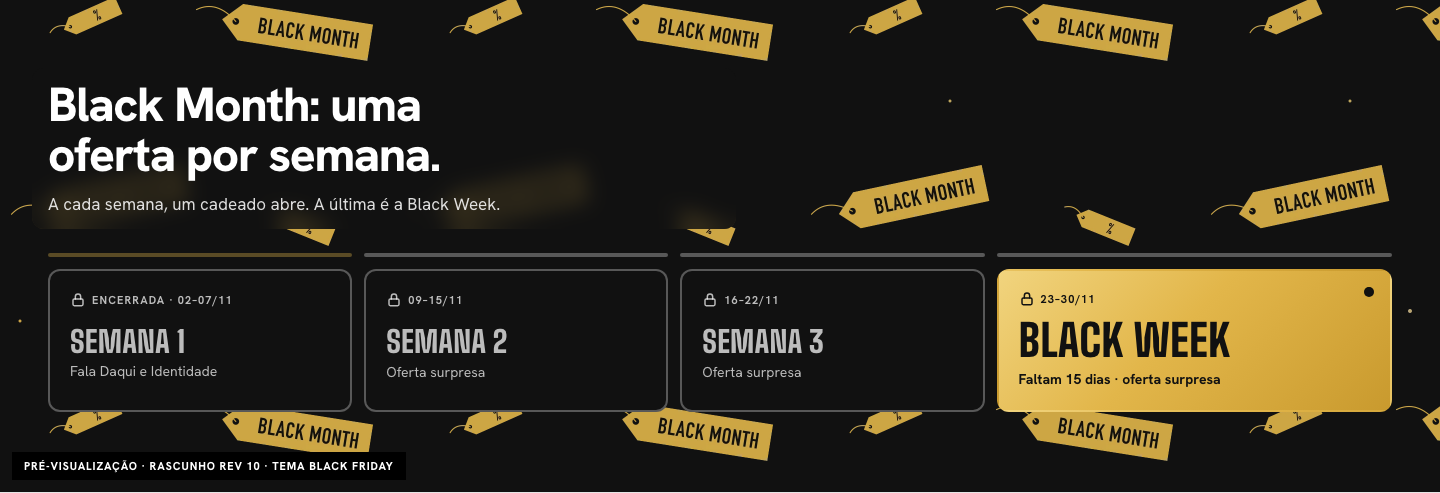
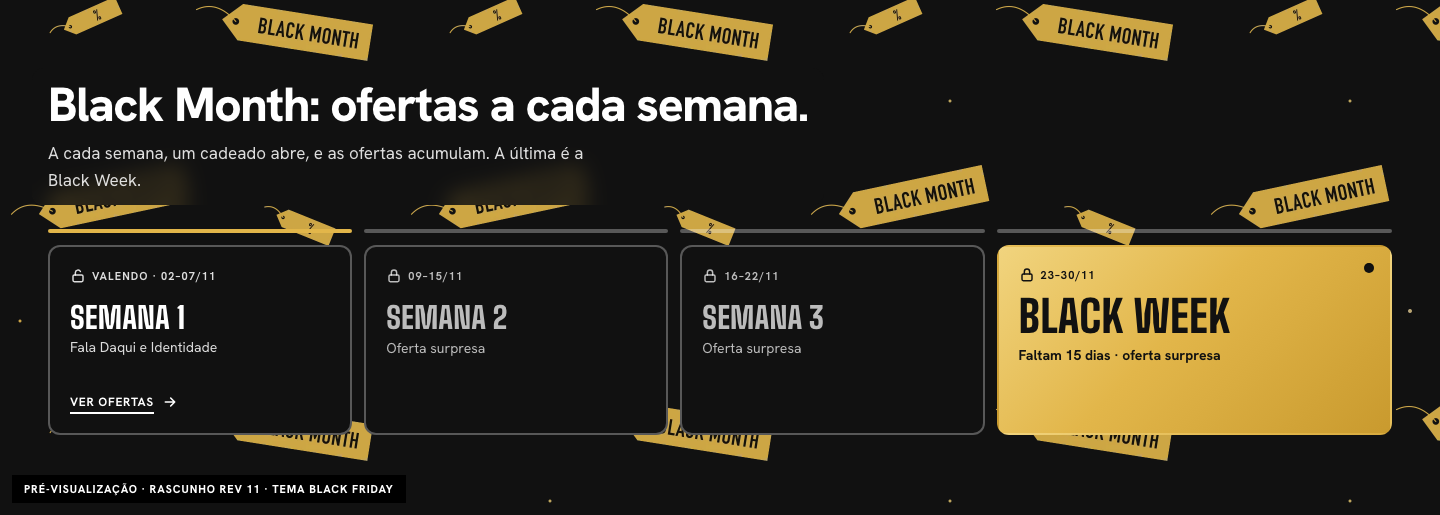
feat(storefront): calendário da Black — ofertas acumulam, Black Week primeiro e em dourado, faixa no topo da hotpage
Pedidos do dono sobre a hotpage do calendário:
- A faixa de checkpoints pode abrir a página no lugar do topo (o topo oculto; o título dela vira o h1).
- "Ofertas acumulam" na faixa: a semana que passou continua "Valendo · 02–07/11", com o link. As vitrines sem dia de
  encerramento continuam abertas.
- Na última semana, as vitrines com período invertem a ordem (a Black Week primeiro).
- A cor própria da vitrine (o dourado da Black Week) tinge o vidro enquanto ela está fechada. Sobre uma cor num fundo escuro,
  os cards ganham fundo claro (contraste do nome e da cidade).
- Prévia: numa página, &tema=black mostra o topo e as cores da Black.

diff --git a/src/components/home/HomeSections.tsx b/src/components/home/HomeSections.tsx
@@ -29,7 +29,7 @@ import { heroCards, heroSlides } from "@/lib/hero-featured";
 import type { RegionHome } from "@/lib/home";
 import type { RegionSlug } from "@/lib/geo/regions";
 import { storeForRegion } from "@/lib/catalog/commerce-mode";
-import { checkpointStates, daysBetween, periodLabel, periodState, todayInBrasilia } from "@/lib/site-config/checkpoints";
+import { checkpointStates, dayMonth, daysBetween, periodLabel, periodState, todayInBrasilia } from "@/lib/site-config/checkpoints";
 import { LockedShelf } from "./LockedShelf";
 import { WeeklyCheckpoints, type CheckpointView } from "./WeeklyCheckpoints";
 import { customizerFigure, firstImageSectionId, focalToCss, hasImage, mediaFigure, renderableSections, resolveBackground, resolveCustomizerCard, resolveStateCovers } from "@/lib/site-config/resolve";
@@ -90,7 +90,7 @@ export function HomeSections({
 
   const rendered = (
     <>
-      {sections.map((s, index) => {
+      {byCalendar(sections, today).map((s, index) => {
         const bg = resolveBackground(s.appearance, media);
         switch (s.template) {
           case "hero": {
@@ -245,10 +245,13 @@ export function HomeSections({
               return (
                 <LockedShelf
                   key={s.id}
+                  // The section's own colour (the Black Week's yellow) tints its glass: the special week looks special while it waits.
+                  accent={bg.fill.kind === "solid" ? cssColor(bg.fill.color) : bg.fill.kind === "gradient" ? `linear-gradient(${bg.fill.angle}deg, ${cssColor(bg.fill.from)}, ${cssColor(bg.fill.to)})` : undefined}
                   anchor={s.anchor}
                   heading={when === "locked" ? s.period.label ?? "Oferta surpresa" : s.title ?? s.period.label ?? "Oferta encerrada"}
                   state={when}
-                  period={periodLabel(s.period)}
+                  // A shelf that only opens (its offer then stays, accumulating) reads "Abre 16/11"; one with an end, its whole period.
+                  period={when === "locked" && s.period.opensAt && !s.period.closesAt ? `Abre ${dayMonth(s.period.opensAt)}` : periodLabel(s.period)}
                   {...(when === "locked" && s.period.opensAt ? { daysLeft: daysBetween(today, s.period.opensAt) } : {})}
                 />
               );
@@ -311,7 +314,7 @@ export function HomeSections({
           case "image-grid": {
             if (!s.title || !s.grid) return null;
             if (s.variant === "checkpoints") {
-              const states = checkpointStates(s.tiles ?? [], today);
+              const states = checkpointStates(s.tiles ?? [], today, s.accumulate === true);
               const items = (s.tiles ?? []).map((t, i): CheckpointView => ({
                 label: t.label,
                 ...(t.caption ? { caption: t.caption } : {}),
@@ -325,7 +328,9 @@ export function HomeSections({
                 highlight: t.highlight === true,
                 state: states[i],
               }));
-              return <WeeklyCheckpoints key={s.id} anchor={s.anchor} headingId={s.headingId} title={s.title} subtitle={s.subtitle} items={items} />;
+              // On a page whose hero gives way (hidden), the strip opens it: its title is the page's heading.
+              const opening = Boolean(page) && !sections.some((x) => x.template === "page-hero") && sections[0]?.id === s.id;
+              return <WeeklyCheckpoints key={s.id} anchor={s.anchor} headingId={s.headingId} title={s.title} subtitle={s.subtitle} items={items} opening={opening} />;
             }
             const tiles = gridTiles(s, media, links, region, categories);
             if (tiles.length === 0) return null;
@@ -520,7 +525,9 @@ function CarouselSection({
       sourceSection={SOURCES[s.analyticsSource]}
       buy={buy}
       tags={s.layout.tags}
-      solidCards={hasImage(bg)}
+      // Solid cards over a picture, and over a colour of the section's own on a dark ground (the Black Week's yellow): names and places keep their
+      // contrast on the card's light surface instead of sitting on the colour.
+      solidCards={hasImage(bg) || (pageTone === "dark" && bg.fill.kind !== "none")}
       eager={eager}
     />
   );
@@ -597,6 +604,21 @@ function gridTiles(s: Section, media: PublishedBundle["media"], links: Collectio
 
 /** A collection card's colour as CSS (the region's colour when none). */
 const tileColor = (color: Color | undefined): string => cssColor(color ?? "token:region-primary");
+
+/**
+ * The Black calendar's last week first: once the product section with the latest opening day runs (the Black Week), the product sections with a
+ * period swap places in reverse, the newest on top; every other section keeps its place. Before that, the calendar's order.
+ */
+function byCalendar(sections: Section[], today: string): Section[] {
+  const at = sections.flatMap((s, i) => (s.template === "product-carousel" && s.period?.opensAt ? [i] : []));
+  if (at.length < 2) return sections;
+  const last = at.reduce((a, b) => (sections[b].period!.opensAt! > sections[a].period!.opensAt! ? b : a));
+  if (periodState(sections[last].period!, today) !== "running") return sections;
+  const newestFirst = [...at].sort((a, b) => (sections[b].period!.opensAt! < sections[a].period!.opensAt! ? -1 : 1));
+  const out = [...sections];
+  at.forEach((pos, k) => { out[pos] = sections[newestFirst[k]]; });
+  return out;
+}
 
 /** The split campaign's figure: the section's picture, each screen with its own crop and framing (null: no picture, the shirts stand in). */
 function splitFigure(bg: ReturnType<typeof resolveBackground>): BannerAsset | null {

diff --git a/src/components/home/LockedShelf.tsx b/src/components/home/LockedShelf.tsx
@@ -14,7 +14,7 @@ function Shirt() {
   );
 }
 
-export function LockedShelf({ anchor, heading, subtitle, state, period, daysLeft, cards = 4 }: {
+export function LockedShelf({ anchor, heading, subtitle, state, period, daysLeft, cards = 4, accent }: {
   anchor: string;
   heading: string;
   subtitle?: string;
@@ -23,6 +23,8 @@ export function LockedShelf({ anchor, heading, subtitle, state, period, daysLeft
   period: string | null;
   daysLeft?: number;
   cards?: number;
+  /** The section's own colour (a CSS colour or gradient: the Black Week's yellow). The glass takes it, with near-black text and a black padlock. */
+  accent?: string;
 }) {
   const locked = state === "locked";
   const headingId = `${anchor}-title`;
@@ -49,19 +51,24 @@ export function LockedShelf({ anchor, heading, subtitle, state, period, daysLeft
           ))}
         </ul>
         {/* The glass: the ground's colour, translucent and blurred, over the whole shelf, with the lock in the middle. */}
-        <div className="absolute inset-0 flex items-center justify-center rounded-xl border border-white/10 p-5 text-center [-webkit-backdrop-filter:blur(18px)] [backdrop-filter:blur(18px)]" style={{ background: "color-mix(in srgb, var(--plate-solid, #111) 45%, transparent)" }}>
-          <div className="max-w-sm">
-            <span className="mx-auto mb-3 flex h-12 w-12 items-center justify-center rounded-full" style={locked ? { background: HIGHLIGHT, color: "#111" } : { border: "2px solid var(--line)" }}>
+        <div
+          className={`absolute inset-0 flex items-center justify-center rounded-xl border p-5 text-center [-webkit-backdrop-filter:blur(18px)] [backdrop-filter:blur(18px)] ${accent ? "on-light border-transparent" : "border-white/10"}`}
+          style={accent ? { background: accent, color: "#111" } : { background: "color-mix(in srgb, var(--plate-solid, #111) 45%, transparent)" }}
+        >
+          {/* On the accent, a soft veil keeps the shirts behind it barely visible, like frosted gold. */}
+          {accent && <span aria-hidden="true" className="pointer-events-none absolute inset-0 rounded-xl opacity-90" style={{ background: accent }} />}
+          <div className="relative max-w-sm">
+            <span className="mx-auto mb-3 flex h-12 w-12 items-center justify-center rounded-full" style={accent ? { background: "#111", color: HIGHLIGHT } : locked ? { background: HIGHLIGHT, color: "#111" } : { border: "2px solid var(--line)" }}>
               <svg aria-hidden="true" viewBox="0 0 24 24" className="h-6 w-6" fill="none" stroke="currentColor" strokeWidth="2.2" strokeLinecap="round" strokeLinejoin="round">
                 <rect x="4.5" y="10.5" width="15" height="10" rx="2" />
                 <path d="M8 10.5V7a4 4 0 0 1 8 0v3.5" />
               </svg>
             </span>
-            <p className="text-[0.75rem] font-bold uppercase tabular-nums tracking-[0.12em]" style={locked ? { color: HIGHLIGHT } : undefined}>
+            <p className="text-[0.75rem] font-bold uppercase tabular-nums tracking-[0.12em]" style={locked && !accent ? { color: HIGHLIGHT } : undefined}>
               {locked ? period ?? "Em breve" : `Encerrada${period ? ` · ${period}` : ""}`}
             </p>
             <p className="mt-2 font-display text-[clamp(1.6rem,3vw,2.25rem)] font-extrabold uppercase leading-[0.95]">{locked ? "Oferta surpresa" : "Oferta encerrada"}</p>
-            <p className="mt-2 text-[0.9375rem] text-ink-soft">{locked ? (countdown ? `${countdown}. O cadeado abre à meia-noite.` : "O cadeado abre à meia-noite.") : "Veja no calendário a oferta desta semana."}</p>
+            <p className={`mt-2 text-[0.9375rem] ${accent ? "" : "text-ink-soft"}`}>{locked ? (countdown ? `${countdown}. O cadeado abre à meia-noite.` : "O cadeado abre à meia-noite.") : "Veja no calendário a oferta desta semana."}</p>
           </div>
         </div>
       </div>

diff --git a/src/lib/site-config/schema.ts b/src/lib/site-config/schema.ts
@@ -225,6 +225,14 @@ export type GridTile = {
   /** "Checkpoints" only: the block in evidence (the week of Black Friday itself), drawn in the campaign's yellow. */
   highlight?: boolean;
 };
+/**
+ * A section that may open a page in the page hero's place (the hero hidden): an active live banner, or an active "Checkpoints semanais" strip (the
+ * Black calendar page, whose padlocks are the top). Its title becomes the page's heading.
+ */
+export const opensPage = (s: unknown): boolean =>
+  typeof s === "object" && s !== null && (s as { active?: unknown }).active === true &&
+  ((s as { template?: unknown }).template === "personalization-live" || ((s as { template?: unknown }).template === "image-grid" && (s as { variant?: unknown }).variant === "checkpoints"));
+
 /** One period of the opening's texts (`Section.heroSchedule`). */
 export type HeroScheduleEntry = { from: string; to: string; title?: string; subtitle?: string; cta?: { label: string; dest: Destination } };
 export const MAX_HERO_SCHEDULE = 12;
@@ -304,6 +312,8 @@ export type Section = {
    * offer; after it, the same panel saying it ended; in it, the section as always.
    */
   period?: { opensAt?: string; closesAt?: string; label?: string };
+  /** "Checkpoints semanais" only: the offers accumulate, so a week past its end stays valid ("Valendo · 02–07/11", with its link) instead of "Encerrada". */
+  accumulate?: true;
   /** Hero "feature" only: the colours of the reading half (`HERO_COLOR_KEYS`); absent (or a key absent) = the theme's own. */
   heroColors?: HeroColors;
   /** Show this section in the storefront header menu, under this label (the "apelido"). Not for the hero or the footer. `dest` sends the link to a page instead of this section. */
@@ -933,6 +943,7 @@ function checkSection(c: Collector, path: string, v: unknown): void {
       });
     }
   }
+  if (v.accumulate !== undefined && (v.template !== "image-grid" || v.variant !== "checkpoints" || v.accumulate !== true)) c.fail(`${path}.accumulate`, "the checkpoints composition only: true or absent");
   if (v.period !== undefined) {
     const p = v.period;
     if (v.template !== "product-carousel" || !isRecord(p) || (p.opensAt === undefined && p.closesAt === undefined)) c.fail(`${path}.period`, "product sections only: { opensAt?, closesAt? }, at least one");
@@ -1091,10 +1102,11 @@ function checkPage(c: Collector, path: string, v: unknown): void {
     if (i === 0 && s.template !== "page-hero") c.fail(`${path}.sections[0]`, "the first section must be the page hero");
     if (i > 0 && s.template === "page-hero") c.fail(`${path}.sections[${i}]`, "the page hero appears once, first");
   });
-  // The page hero opens every page; it may stay hidden only while a live banner opens the page instead (its title becomes the page's heading).
+  // The page hero opens every page; it may stay hidden only while a live banner or a checkpoints strip opens the page instead (its title becomes the
+  // page's heading).
   const hero = sections[0];
-  if (isRecord(hero) && hero.template === "page-hero" && hero.active === false && !sections.some((s) => isRecord(s) && s.template === "personalization-live" && s.active === true)) {
-    c.fail(`${path}.sections[0]`, "the page hero may be hidden only when an active live banner opens the page");
+  if (isRecord(hero) && hero.template === "page-hero" && hero.active === false && !sections.some(opensPage)) {
+    c.fail(`${path}.sections[0]`, "the page hero may be hidden only when an active live banner or checkpoints strip opens the page");
   }
   // The page numbers live in a parent-category landing's address (`/colecoes/<slug>/2`): one paged grid, there only.
   const paged = sections.filter((s) => isRecord(s) && isRecord(s.layout) && s.layout.display === "paged").length;

diff --git a/src/components/home/WeeklyCheckpoints.tsx b/src/components/home/WeeklyCheckpoints.tsx
@@ -38,11 +38,11 @@ const Arrow = ({ className = "h-4 w-4" }: { className?: string }) => (
 
 /**
  * The line with the padlock: the period of a locked week ("02–07/11"; "Abre 02/11" when it has no end), "Esta semana · 09–15/11", "Encerrada ·
- * 02–07/11", or "Valendo" for an earlier week without an end (its offer still holds).
+ * 02–07/11", or "Valendo · 02–07/11" for an earlier week whose offer still holds (no end, or offers that accumulate).
  */
 function Status({ it }: { it: CheckpointView }) {
   const with_ = (word: string) => (it.period ? `${word} · ${it.period}` : word);
-  const text = it.state === "locked" ? it.period ?? `Abre ${it.opensAt ? dayMonth(it.opensAt) : "em breve"}` : it.state === "current" ? with_("Esta semana") : it.state === "ended" ? with_("Encerrada") : it.period ?? "Valendo";
+  const text = it.state === "locked" ? it.period ?? `Abre ${it.opensAt ? dayMonth(it.opensAt) : "em breve"}` : it.state === "current" ? with_("Esta semana") : it.state === "ended" ? with_("Encerrada") : with_("Valendo");
   return (
     <span className="inline-flex items-center gap-1.5 whitespace-nowrap text-[0.6875rem] font-bold uppercase tabular-nums tracking-[0.1em]">
       <Padlock open={it.state === "current" || it.state === "open"} />
@@ -85,14 +85,21 @@ function Card({ href, external, current, className, style, children }: { href: s
  * Phones keep it short: the current and the evidence weeks as cards, every other week as one line. From 1024px, all side by side. Server-rendered:
  * the lock turns when the page is regenerated after Brasília midnight.
  */
-export function WeeklyCheckpoints({ anchor, headingId, title, subtitle, items }: { anchor: string; headingId: string; title: string; subtitle?: string; items: CheckpointView[] }) {
+export function WeeklyCheckpoints({ anchor, headingId, title, subtitle, items, opening = false }: { anchor: string; headingId: string; title: string; subtitle?: string; items: CheckpointView[]; /** It opens the page (the page hero hidden): its title is the page's h1, in the display face, under the opening's yellow rule. */ opening?: boolean }) {
   const running = items.find((it) => it.state === "current");
   const cols = { "--cp-cols": items.map((it) => (it.highlight ? "1.3fr" : "1fr")).join(" "), "--cp-n": `repeat(${items.length}, minmax(0, 1fr))` } as CSSProperties;
   return (
-    <section id={anchor} aria-labelledby={headingId} className="wrap py-12 lg:py-20" data-testid="checkpoints">
-      <div className="ground-plate mb-7 w-fit max-w-2xl lg:mb-9">
-        <h2 id={headingId} className="t-h2 [text-wrap:balance]">{title}</h2>
-        {subtitle && <p className="t-body mt-2.5 max-w-[60ch] text-ink-soft">{subtitle}</p>}
+    <section id={anchor} aria-labelledby={headingId} className={`wrap ${opening ? "pb-12 pt-10 lg:pb-20 lg:pt-16" : "py-12 lg:py-20"}`} data-testid="checkpoints">
+      <div className="ground-plate mb-7 w-fit max-w-3xl lg:mb-9">
+        {opening ? (
+          <>
+            <span aria-hidden="true" className="mb-4 block h-[3px] w-12" style={{ background: HIGHLIGHT }} />
+            <h1 id={headingId} className="font-display text-[clamp(2.5rem,6vw,4.75rem)] font-extrabold uppercase leading-[0.92] tracking-[0.004em] [text-wrap:balance]">{title}</h1>
+          </>
+        ) : (
+          <h2 id={headingId} className="t-h2 [text-wrap:balance]">{title}</h2>
+        )}
+        {subtitle && <p className={`t-body max-w-[60ch] text-ink-soft ${opening ? "mt-4" : "mt-2.5"}`}>{subtitle}</p>}
       </div>
       <div style={cols}>
         <p className="sr-only">{running ? `Em oferta agora: ${running.label}${running.period ? `, ${running.period}` : ""}.` : "Nenhuma semana em oferta hoje."}</p>

diff --git a/src/lib/admin/draft-ops.ts b/src/lib/admin/draft-ops.ts
@@ -24,12 +24,12 @@ import type { MundoModo } from "../site-config/mundo-schema";
 import type { InkThemeConfig } from "../site-config/ink-theme-schema";
 import { withStatePageSection, type StatePageSection } from "../site-config/state-page-schema";
 import { withFollowPart, type FollowPart } from "../site-config/follow-schema";
-import { isUmaPencaSource, validateCustomizer, validatePage, validateScopeDoc, validateSection, homeThemeOf, MENU_HIGHLIGHT_KEYS, type Appearance, type CollectionHighlight, type CollectionNote, type CollectionRef, type HomeThemeName, type StateSubcategories, type Customizer, type CustomizerSource, type Destination, type Page, type PageBackdrop, type PageKind, type PageSeo, type ProductDisplay, type Section, type ScopeDoc, type Source, type TrackingConfig, type RegionalSection } from "../site-config/schema";
+import { isUmaPencaSource, opensPage, validateCustomizer, validatePage, validateScopeDoc, validateSection, homeThemeOf, MENU_HIGHLIGHT_KEYS, type Appearance, type CollectionHighlight, type CollectionNote, type CollectionRef, type HomeThemeName, type StateSubcategories, type Customizer, type CustomizerSource, type Destination, type Page, type PageBackdrop, type PageKind, type PageSeo, type ProductDisplay, type Section, type ScopeDoc, type Source, type TrackingConfig, type RegionalSection } from "../site-config/schema";
 import { HOME_THEME_LABEL, hasHomeTheme, isSeasonalTheme, newEditorialTheme, seasonalTheme, swapHomeTheme, type EditorialCollections } from "../site-config/home-themes";
 import type { RegionSlug } from "../geo/regions";
 import type { ProductSort } from "../catalog/product-sort";
 
-export type Editable = Pick<Section, "title" | "subtitle" | "cta" | "layout" | "source" | "fallback" | "appearance" | "count" | "stateCovers" | "featured" | "featuredRotation" | "hideFeaturedBar" | "heroSchedule" | "period" | "heroColors" | "nav" | "customizerCard" | "live" | "tiles" | "grid" | "variant" | "regions">;
+export type Editable = Pick<Section, "title" | "subtitle" | "cta" | "layout" | "source" | "fallback" | "appearance" | "count" | "stateCovers" | "featured" | "featuredRotation" | "hideFeaturedBar" | "heroSchedule" | "period" | "accumulate" | "heroColors" | "nav" | "customizerCard" | "live" | "tiles" | "grid" | "variant" | "regions">;
 
 export type DraftOp =
   /** `display: "grid"` creates the section already as a product grid (absent = a carousel). */
@@ -487,8 +487,8 @@ export function applyOp(doc: ScopeDoc, op: DraftOp, ctx: OpContext): OpResult {
       return withSections(op.ids.map((id) => byId.get(id)!));
     }
     case "set-active": {
-      // A page's hero may give way to a live banner (the page's schema checks that one stays active).
-      const heroGivesWay = ctx.mode === "page" && next[index].template === "page-hero" && next.some((s) => s.template === "personalization-live" && s.active);
+      // A page's hero may give way to a live banner or a checkpoints strip (the page's schema checks that one stays active).
+      const heroGivesWay = ctx.mode === "page" && next[index].template === "page-hero" && next.some(opensPage);
       if (isLocked(next[index]) && !op.active && !heroGivesWay) return fail("the hero and the footer cannot be hidden");
       next[index].active = op.active;
       return withSections(next, op.id);

diff --git a/src/components/admin/GridTilesEditor.tsx b/src/components/admin/GridTilesEditor.tsx
@@ -65,7 +65,7 @@ const ASPECT_CLASS: Record<GridLayout["aspect"], string> = { square: "aspect-squ
  * rows post as `tile_<i>_*` in their current order plus `tile_count`, parsed by `parseGridTiles` (src/lib/admin/section-form.ts).
  */
 export function GridTilesEditor({
-  scope, tiles, layout, media, thumbOf, collections, pages, anchors, customizers = [], checkpoints = false,
+  scope, tiles, layout, media, thumbOf, collections, pages, anchors, customizers = [], checkpoints = false, accumulate = false,
 }: {
   scope: string;
   tiles: GridTile[];
@@ -80,6 +80,8 @@ export function GridTilesEditor({
   customizers?: { id: string; name: string; active: boolean }[];
   /** "Checkpoints semanais": each block has the day it opens and may be the one in evidence; no picture, format or grid layout. */
   checkpoints?: boolean;
+  /** Checkpoints: the offers accumulate (CMS `accumulate`). */
+  accumulate?: boolean;
 }) {
   const nextKey = useRef(tiles.length);
   const [rows, setRows] = useState<Row[]>(() => tiles.map((t, i) => toRow(t, i, scope)));
@@ -102,7 +104,16 @@ export function GridTilesEditor({
 
   return (
     <>
-      {checkpoints && <input type="hidden" name="grid_present" value="1" />}
+      {checkpoints && (
+        <>
+          <input type="hidden" name="grid_present" value="1" />
+          <label className="flex items-center gap-2 font-bold">
+            <input type="checkbox" name="checkpoints_accumulate" defaultChecked={accumulate} data-testid="checkpoints-accumulate" />
+            Ofertas acumulam (a semana anterior continua valendo)
+          </label>
+          <p className="a-muted -mt-2 text-[0.8125rem]">Ligado: depois do último dia, a semana aparece como “Valendo · 02–07/11”, com o link, e só deixa de ser a semana atual. Desligado: aparece como “Encerrada”, sem link.</p>
+        </>
+      )}
       {!checkpoints && (
       <fieldset className="space-y-4">
         <legend className="a-h2 mb-3">Layout da grade</legend>

diff --git a/tests/unit/checkpoints.test.ts b/tests/unit/checkpoints.test.ts
@@ -157,3 +157,20 @@ describe("the opening's scheduled texts", () => {
     expect(followedDoc(norte, sul, true).home!.sections[0].heroSchedule![0].cta!.dest).toEqual({ kind: "route", path: "/norte/busca" });
   });
 });
+
+describe("offers that accumulate (the owner's final call: the previous week is not switched off)", () => {
+  const CAL = [week(1, "2026-11-02", { closesAt: "2026-11-07" }), week(2, "2026-11-09", { closesAt: "2026-11-15" }), week(3, "2026-11-16", { closesAt: "2026-11-22" }), week(4, "2026-11-23", { closesAt: "2026-11-30", highlight: true })];
+  test("given accumulating offers, when a week is past its end, then it stays valid (open) and only the week in its period is current", () => {
+    expect(checkpointStates(CAL, "2026-11-08", true)).toEqual(["open", "locked", "locked", "locked"]);
+    expect(checkpointStates(CAL, "2026-11-10", true)).toEqual(["open", "current", "locked", "locked"]);
+    expect(checkpointStates(CAL, "2026-11-24", true)).toEqual(["open", "open", "open", "current"]);
+    expect(checkpointStates(CAL, "2026-11-24")).toEqual(["ended", "ended", "ended", "current"]); // without it, as before
+  });
+  test("given the composition, when validated or posted, then the option holds only on checkpoints", () => {
+    expect(validateSection(checkpoints({ accumulate: true })).ok).toBe(true);
+    const plain = [{ label: "A", dest: { kind: "route" as const, path: "/sul/busca" } }, { label: "B", dest: { kind: "route" as const, path: "/sul/busca" } }];
+    expect(validateSection(checkpoints({ variant: undefined, tiles: plain, accumulate: true })).ok).toBe(false);
+    expect(parseSectionForm(form({ grid_present: "1", variant_present: "1", variant: "checkpoints", checkpoints_accumulate: "on" }), checkpoints()).accumulate).toBe(true);
+    expect(parseSectionForm(form({ grid_present: "1", variant_present: "1", variant: "checkpoints" }), checkpoints({ accumulate: true })).accumulate).toBeUndefined();
+  });
+});

diff --git a/src/lib/admin/diff.ts b/src/lib/admin/diff.ts
@@ -21,7 +21,7 @@ const label = (s: Section) => s.title ?? s.anchor;
 const json = (v: unknown) => JSON.stringify(v ?? null);
 
 const EDITED_FIELDS: [keyof Section, string][] = [
-  ["title", "título"], ["subtitle", "subtítulo"], ["cta", "botão/link"], ["source", "fonte"], ["layout", "layout"], ["appearance", "aparência"], ["featured", "produtos em destaque do hero"], ["featuredRotation", "alternância dos produtos do hero"], ["hideFeaturedBar", "faixa do produto embaixo do banner"], ["heroSchedule", "textos programados da abertura"], ["period", "período da oferta"], ["heroColors", "cores do lado do texto do hero"], ["count", "quantidade de estilos"], ["stateCovers", "banners dos estados"], ["nav", "menu do topo"], ["fallback", "alternativa sem imagem"], ["tiles", "blocos da grade"], ["grid", "layout da grade"], ["variant", "composição"], ["regions", "regiões em que aparece"],
+  ["title", "título"], ["subtitle", "subtítulo"], ["cta", "botão/link"], ["source", "fonte"], ["layout", "layout"], ["appearance", "aparência"], ["featured", "produtos em destaque do hero"], ["featuredRotation", "alternância dos produtos do hero"], ["hideFeaturedBar", "faixa do produto embaixo do banner"], ["heroSchedule", "textos programados da abertura"], ["period", "período da oferta"], ["accumulate", "ofertas acumulam"], ["heroColors", "cores do lado do texto do hero"], ["count", "quantidade de estilos"], ["stateCovers", "banners dos estados"], ["nav", "menu do topo"], ["fallback", "alternativa sem imagem"], ["tiles", "blocos da grade"], ["grid", "layout da grade"], ["variant", "composição"], ["regions", "regiões em que aparece"],
 ];
 
 /** Name of an INK collection for the publish screen (injected: this module stays pure). */

diff --git a/src/lib/site-config/checkpoints.ts b/src/lib/site-config/checkpoints.ts
@@ -25,16 +25,18 @@ export function periodState(p: Period, today: string): PeriodState {
 
 /**
  * Each block's state on `today`. Among the running ones, the one that opened last is "current" (the week running now); a block without a day is open
- * from the start and is current only while no dated block runs. Between two periods (07/11 ended, 09/11 not yet open) no block is current.
+ * from the start and is current only while no dated block runs. Between two periods (07/11 ended, 09/11 not yet open) no block is current. With
+ * `accumulate`, a week past its end stays "open" (its offer still holds) instead of "ended".
  */
-export function checkpointStates(tiles: readonly Pick<GridTile, "opensAt" | "closesAt">[], today: string): CheckpointState[] {
+export function checkpointStates(tiles: readonly Pick<GridTile, "opensAt" | "closesAt">[], today: string, accumulate = false): CheckpointState[] {
   const states = tiles.map((t) => periodState(t, today));
   let current = -1;
   tiles.forEach((t, i) => {
     if (states[i] !== "running") return;
     if (current < 0 || (t.opensAt ?? "") >= (tiles[current].opensAt ?? "")) current = i;
   });
-  return tiles.map((_, i) => (i === current ? "current" : states[i] === "running" ? "open" : states[i]));
+  // Offers that accumulate (CMS `accumulate`): a week past its end keeps its offer ("Valendo"), it is only no longer the current one.
+  return tiles.map((_, i) => (i === current ? "current" : states[i] === "running" || (accumulate && states[i] === "ended") ? "open" : states[i]));
 }
 
 /** "2026-11-16" → "16/11". */

diff --git a/src/app/admin/(panel)/paginas/[id]/page.tsx b/src/app/admin/(panel)/paginas/[id]/page.tsx
@@ -20,7 +20,7 @@ import { loadWorkspace } from "@/lib/admin/workspace";
 import { libraryEntries } from "@/lib/catalog/collection-source";
 import { enabledInternalIds } from "@/lib/site-config/collections-enabled";
 import { PAGE_KIND_LABEL, pageAsHomeDoc, pageHref } from "@/lib/site-config/pages";
-import type { Section } from "@/lib/site-config/schema";
+import { opensPage, type Section } from "@/lib/site-config/schema";
 import { PAGE_ONLY_MODELS, STRUCTURED_MODELS } from "@/lib/site-config/structured";
 import { PRODUCT_SORTS, PRODUCT_SORT_LABEL } from "@/lib/catalog/product-sort";
 
@@ -128,8 +128,8 @@ export default async function PageEditor({ params, searchParams }: { params: Pro
           rows={page.sections.map((s) => {
               const status = sourceStatus(s, ws.doc);
               const locked = s.template === "page-hero";
-              // The page's hero may give way to an active live banner, which then opens the page.
-              const liveOpens = locked && (!s.active || page.sections.some((x) => x.template === "personalization-live" && x.active));
+              // The page's hero may give way to an active live banner or checkpoints strip, which then opens the page.
+              const liveOpens = locked && (!s.active || page.sections.some(opensPage));
               const custom = s.id.startsWith("custom-") && !locked;
               const readable = sectionReadability(s);
               const label = s.title?.replace(/\n/g, " ") ?? s.anchor;

diff --git a/src/app/admin/preview/page.tsx b/src/app/admin/preview/page.tsx
@@ -60,7 +60,10 @@ export default async function AdminPreview({ searchParams }: { searchParams: Pro
   const page = pageId ? effective.docs[scope].pages?.find((p) => p.id === pageId) : undefined;
   const model = customizerId ? effective.docs[scope].customizers?.find((m) => m.id === customizerId) : undefined;
   // The colours, the theme and the header of the document as the store shows it: following Sul's home in Natal brings its chrome, with the region's palette.
-  const shown = effective.docs[scope] ?? doc;
+  // A page with ?tema=: the chrome (palette, header, menu) of THAT theme, as the store will dress every page once the theme is put on it and
+  // published (the page itself is composed over what is published, whose chrome is the theme on the store today).
+  const composed = effective.docs[scope] ?? doc;
+  const shown = pageId && tema ? { ...composed, ...(doc.theme ? { theme: doc.theme } : {}), ...(doc.homeTheme ? { homeTheme: doc.homeTheme } : {}), ...(doc.navigation ? { navigation: doc.navigation } : {}) } : composed;
   const palette = resolveTheme(scope, shown, usingPublished ? global.baseDoc : global.doc);
   const cssVars = { ...themeCssVars(palette.configured, palette.effective), ...homeThemeCssVars(shown, palette.effective) };
   const label = `${usingPublished ? "Pré-visualização · publicado" : `Pré-visualização · rascunho${ws.record ? ` rev ${ws.record.rev}` : " (sem alterações)"}`} · tema ${HOME_THEME_LABEL[homeThemeOf(shown)]}`;

diff --git a/src/lib/admin/section-form.ts b/src/lib/admin/section-form.ts
@@ -386,6 +386,11 @@ export function parseSectionForm(f: Fields, section: Section): Partial<Editable>
     const posted = str(f, "variant");
     patch.variant = variantsOf(section.template).includes(posted) ? (posted as Section["variant"]) : undefined;
   }
+  // The checkpoints' offers accumulate (posted with the blocks; only in that composition).
+  if (section.template === "image-grid" && f.get("grid_present") !== null) {
+    const variant = "variant" in patch ? patch.variant : section.variant;
+    patch.accumulate = variant === "checkpoints" && f.get("checkpoints_accumulate") !== null ? true : undefined;
+  }
   return patch;
 }
 
